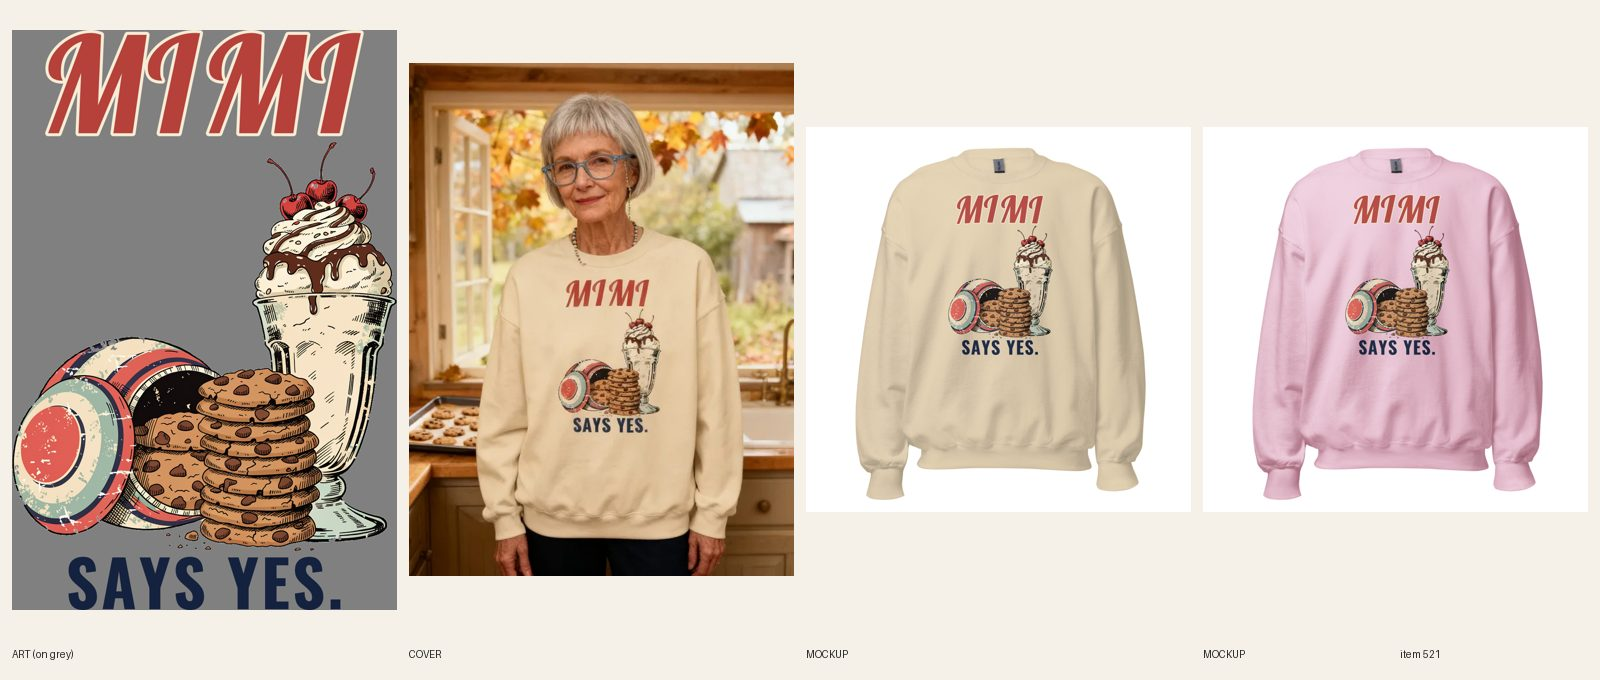
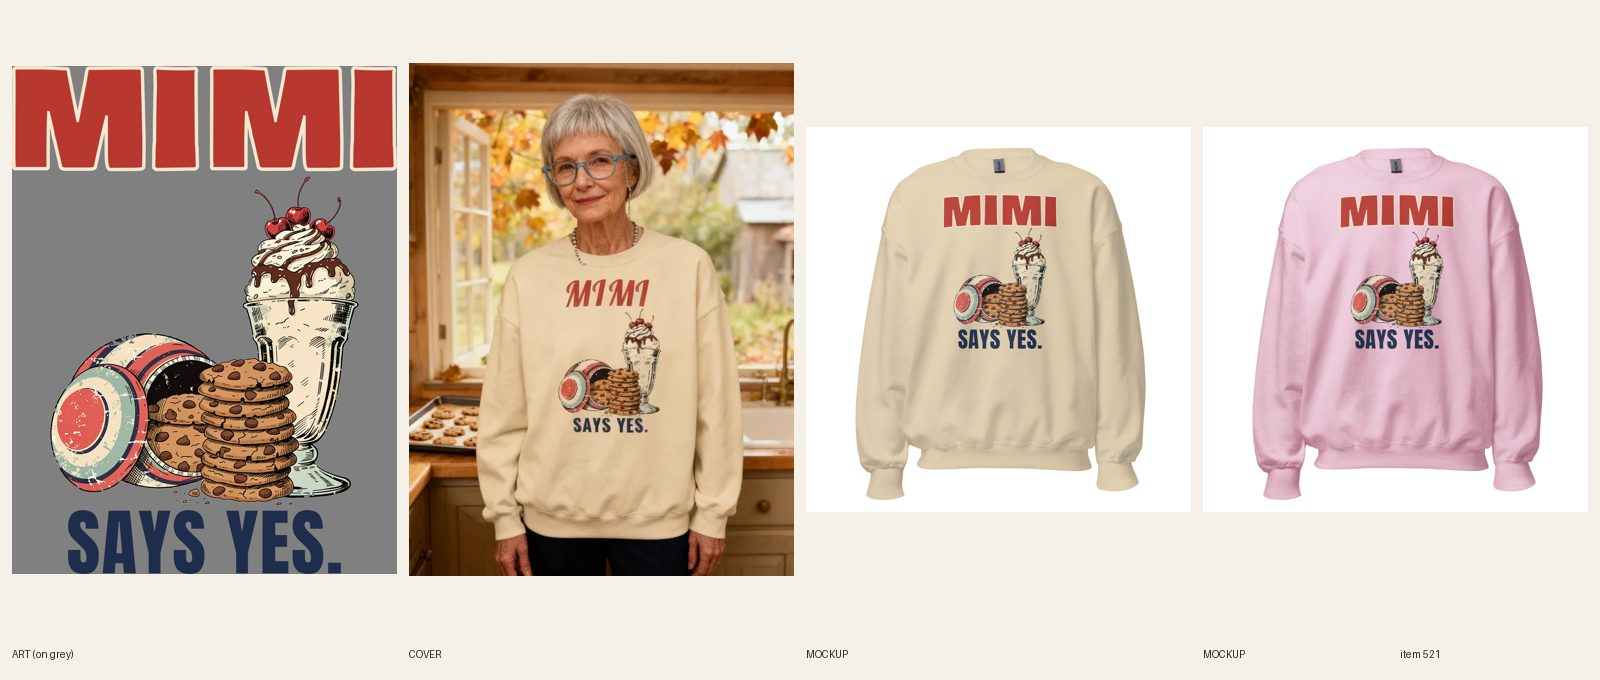
[B] review 521 Mimi Says Yes crewneck (type redo)
Claude-Session: https://claude.ai/code/session_01R3UUGXWWK1qjEqDj6Mz2Rh

Changed region(s): [[0.0, 0.0309, 0.25, 0.8956], [0.8125, 0.2779, 0.9062, 0.525], [0.5625, 0.2779, 0.6875, 0.525]]

diff --git a/docs/pipeline/521-mimi-crew-mimi-says-yes.md b/docs/pipeline/521-mimi-crew-mimi-says-yes.md
@@ -1,4 +1,4 @@
-status: REDO
+status: REVIEW
 lane: B
 type: new
 id: 521
@@ -31,3 +31,4 @@ kd: 48
 - 2026-10-18 02:25 UTC builder [B]: full build. Art: 1 Recraft call, kept (striped cookie jar with lid leaning, tall cookie stack, cherry sundae). MIMI (Lobster, faded red, cream keyline, about 85% of the art width) above and SAYS YES. (Oswald 700 navy, about 70% of the art width) below via compose-print. Colors Sand + Light Pink, NOT Navy: the black linework and navy lettering sink into Navy (brief's logged fallback). Print 8.6 x 13.0 in, ratio 1.51: FW 1500, NOT 1650, because FW 1650 would make it 2486 px tall against the 2400 px area (2325 left under TOP 75); at FW 1500 it is 2260 px (10 x 15.1 in). DRAFT gid 15364421681456, category aa-1-13-14, 12 variants $34.99, compareAtPrice null, tags per brief, keyword mimi sweatshirt 880/KD48 in line one and meta (map entry already present), FAQ 6 x 40-60 words incl. Dec 8. Printful file 1088623864, sync 12/12; mockups Sand + Light Pink + back attached and linked. Phone-size read ok on Light Pink (red MIMI with cream keyline, navy SAYS YES.). Cover: registry 855, 1 fal photo, both lines read, glasses chain clear of the print, hair clear; no composite; alt starts "Woman". Audit-local PASS, astro build OK. fal $0.10.
 - 2026-10-18 02:45 UTC director: LIVE (ACTIVE + Online Store/Headless/Google & YouTube, audit PASS 0 warn).
 - 2026-10-18 17:22 UTC director: QUALITY RESET grade B (type only), REDO. The product stays ACTIVE (same handle, URL, title keyword). Keep the line "MIMI / SAYS YES." and the art. 1. Type: line works; MIMI headline about 60% width, SAYS YES smaller still, art pushed right. 2. Quality reset type bar (docs/backlog/quality-reset.md, 'The new bar'): headline at least 90% of the art width, heavy, colors pulled from the art; second line at least 45% of the headline's height, never a thin script on a dark or mid garment; use the lettering as a shape (arch, stacked lockup, words breaking into the art), not a plain bar above and a script line below; no font used on more than 1 in 6 of the last 30 designs. 3. New print file means a new cover per R6.10 and a fresh review sheet (R7.7). While quality-reset.md says PAUSED, only lane A builds, and only the samples step 2 names.
+- 2026-10-19 19:40 UTC builder [B]: REDO type-only done. Same art (cropped from file 1088623864 to designs/b/mimi-a.png), new print designs/b/mimi.json: MIMI in Bowlby One faded red #b8382f with cream keyline at ~133% of art width, SAYS YES. in Anton navy #1f2d4d (~80% of canvas, ~56% of headline height). All fills dark (Sand + Light Pink, both light), no cream fill so no light file needed. Print 2962x3905, FW 1650 TOP 75. Printful file 1089777309, resynced 12/12. Front mockups Sand + Light Pink replaced in place (back unchanged); Story lettering sentence updated. Phone-size read ok. Cover: plain product shot (retired-covers). fal $0. Sheet docs/review/521.jpg.

diff --git a/docs/intake-log.md b/docs/intake-log.md
@@ -1,5 +1,5 @@
 RUNNING lane A since 2026-10-19 19:30 UTC
-RUNNING lane B since 2026-10-19 19:27 UTC
+2026-10-19 19:40 UTC — [B] Builder run: redid #521 Mimi Says Yes crewneck (type only: Bowlby One red MIMI full width + Anton navy SAYS YES., same art, FW 1650, file 1089777309, 12/12 resynced, 2 fronts replaced in place, copy updated, plain product shot). REVIEW. fal $0. Lock released.
 2026-10-19 20:00 UTC — [C] Builder run: redid #562 Women's Mimi Says Yes hoodie (type only: MIMI full-width heavy red Bowlby + SAYS / YES. stacked navy in the art void, same art at 80%, FW 1500 TOP 20, file 1089778631, 12/12 relinked, 2 fronts replaced in place, copy updated, plain product shot). REVIEW. fal $0. 1 redo per run cap reached. Lock released.
 RUNNING lane E since 2026-10-19 19:15 UTC
 2026-10-19 19:26 UTC — [E] Builder run: redid #556 Men's Golf I Play Army Golf tee (type only: Bowlby One orange LEFT. RIGHT. LEFT. + Bevan green I PLAY ARMY GOLF. at full art width, same art, FW 1650, file 1089766424, 40/40 resynced, 6 fronts replaced in place, plain product shot). REVIEW. fal $0.
